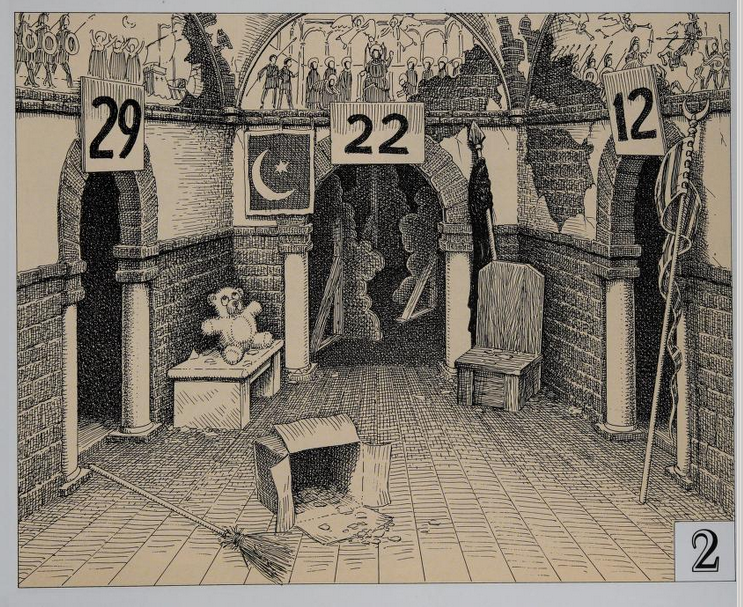
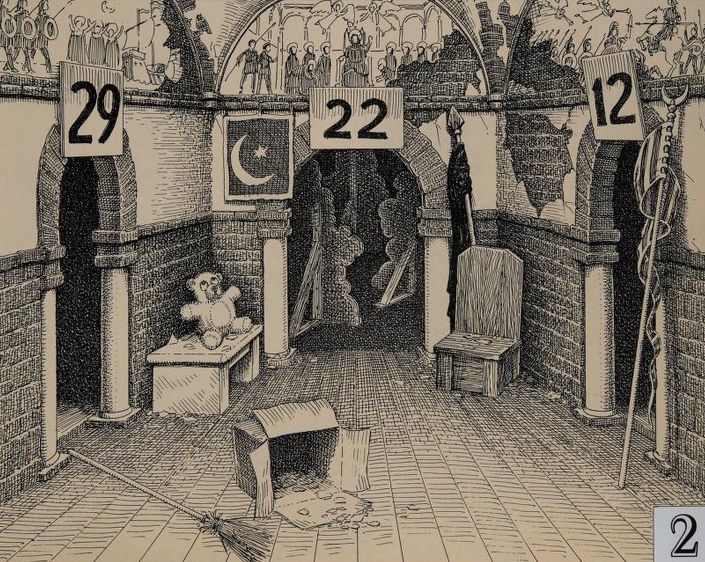
new pages

diff --git a/room-1-copy-2/style.css b/room-1-copy-2/style.css
@@ -10,51 +10,42 @@
     top: 0rem;
     object-fit: cover;
 }
-#twenty {
-    /* background-color: yellow; */
+#twenty-9 {
+    background-color: yellow;
     position: absolute;
 
-    width: 150px;
-    height: 255px;
-    bottom: 575px;
-    right: 1050px;
+    width: 87px;
+    height: 305px;
+    bottom: 485px;
+    right: 1210px;
     z-index: 1;
+    transform: skewY(-35deg);
 }
-#twenty-six {
-    /* background-color: yellow; */
+#twenty-2 {
+    background-color: yellow;
     position: absolute;
 
-    width: 150px;
-    height: 255px;
+    width: 184px;
+    height: 245px;
     bottom: 575px;
-    right: 860px;
+    right: 902px;
     z-index: 1; 
 }
-#forty-one {
-    /* background-color: yellow; */
+#twelve {
+    background-color: yellow;
     position: absolute;
 
-    width: 70px;
-    height: 255px;
-    bottom: 575px;
-    right: 770px;
+    width: 90px;
+    height: 314px;
+    bottom: 483px;
+    right: 684px;
     z-index: 1;
-}
-#twenty-1 {
-    /* background-color: yellow; */
-    position: absolute;
-
-    width: 80px;
-    height: 255px;
-    bottom: 575px;
-    right: 655px;
-    z-index: 1;
+    transform: skewY(35deg);
 }
 #parent {
     width: 800px;
     height: 1000px;
     border: 5px;
-    border-color: yellow;
 
     display: block;
     margin-left: auto;

diff --git a/room-1/style.css b/room-1/style.css
@@ -11,7 +11,6 @@
     object-fit: cover;
 }
 #twenty {
-    background-color: yellow;
     position: absolute;
 
     width: 150px;
@@ -21,7 +20,6 @@
     z-index: 1;
 }
 #twenty-six {
-    background-color: yellow;
     position: absolute;
 
     width: 150px;
@@ -31,7 +29,6 @@
     z-index: 1; 
 }
 #forty-one {
-    background-color: yellow;
     position: absolute;
 
     width: 70px;
@@ -42,7 +39,6 @@
     transform: skewY(28deg);
 }
 #twenty-1 {
-    background-color: yellow;
     position: absolute;
 
     width: 80px;
@@ -55,8 +51,6 @@
 #parent {
     width: 800px;
     height: 1000px;
-    border: 5px;
-    border-color: yellow;
 
     display: block;
     margin-left: auto;

diff --git a/room-1/index.html b/room-1/index.html
@@ -10,9 +10,9 @@
     <div id="parent">
         <img class="room" id="room1" src="../images/room-1.png">
         <a href="../room-1-copy-20/index.html"><div class="room" id="twenty"></div></a>
-        <div class="room" id="twenty-six"></div>
-        <div class="room" id="forty-one"></div>
-        <div class="room" id="twenty-1"></div>
+        <a href="../room-1-copy-28/index.html"><div class="room" id="twenty-six"></div></a>
+        <a href="../room-1-copy-41/index.html"> <div class="room" id="forty-one"></div></a>
+        <a href="../room-1-copy-21/index.html"><div class="room" id="twenty-1"></div></a>
     </div>
 </body>
 </html>

diff --git a/room-1-copy-2/index.html b/room-1-copy-2/index.html
@@ -8,11 +8,10 @@
 </head>
 <body id="black">
     <div id="parent">
-        <img class="room" id="room2" src="../images/2 (2).png">
-        <div class="room" id="twenty"></div>
-        <div class="room" id="twenty-six"></div>
-        <div class="room" id="forty-one"></div>
-        <div class="room" id="twenty-1"></div>
+        <img class="room" id="room2" src="../images/2_2.png">
+        <div class="room" id="twenty-9"></div>
+        <div class="room" id="twenty-2"></div>
+        <div class="room" id="twelve"></div>
     </div>
 </body>
 </html>
